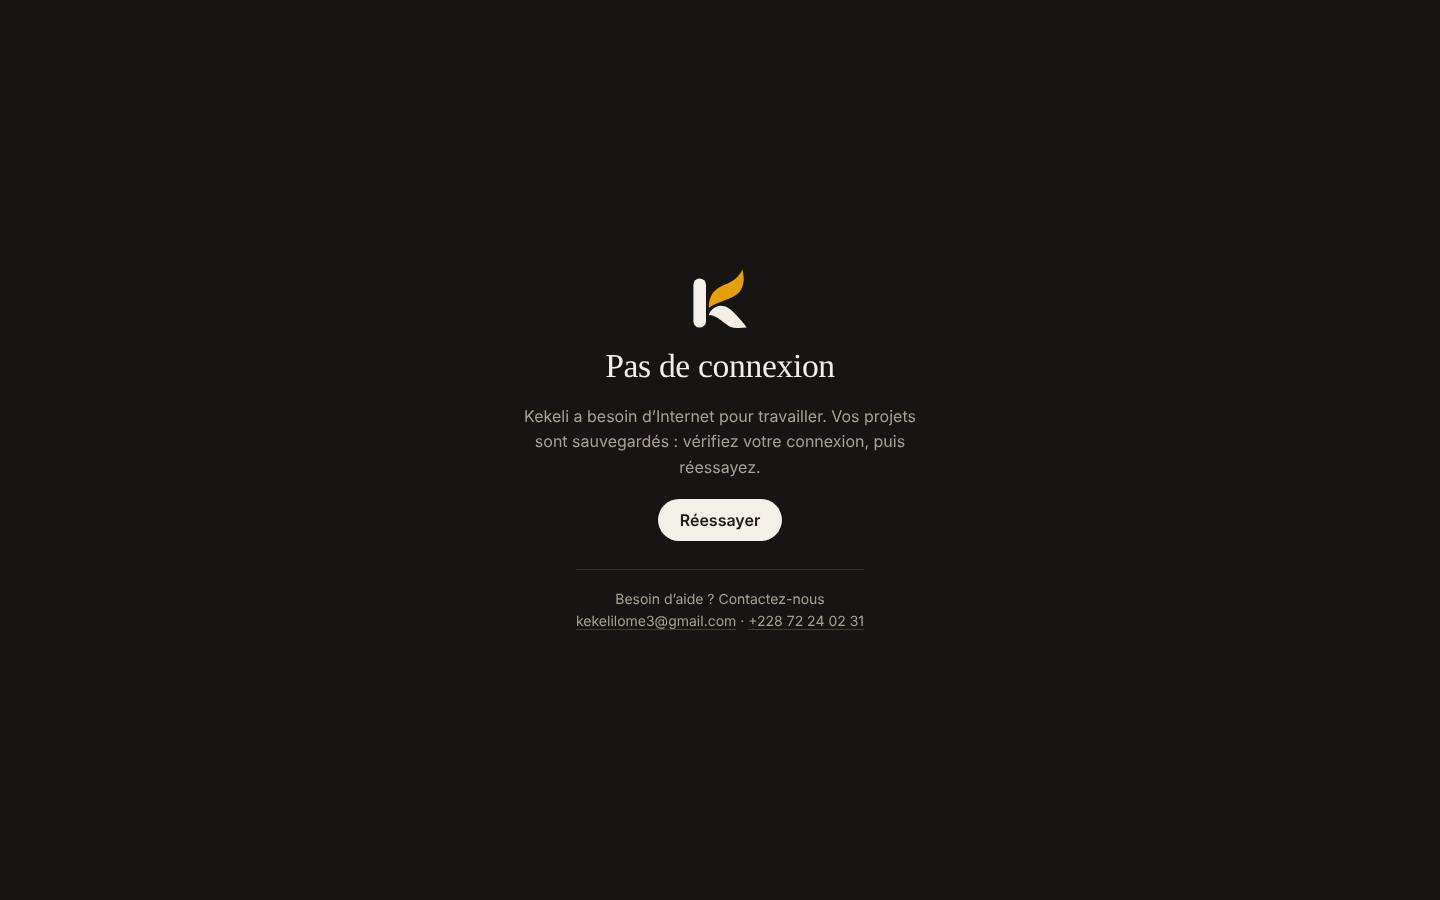
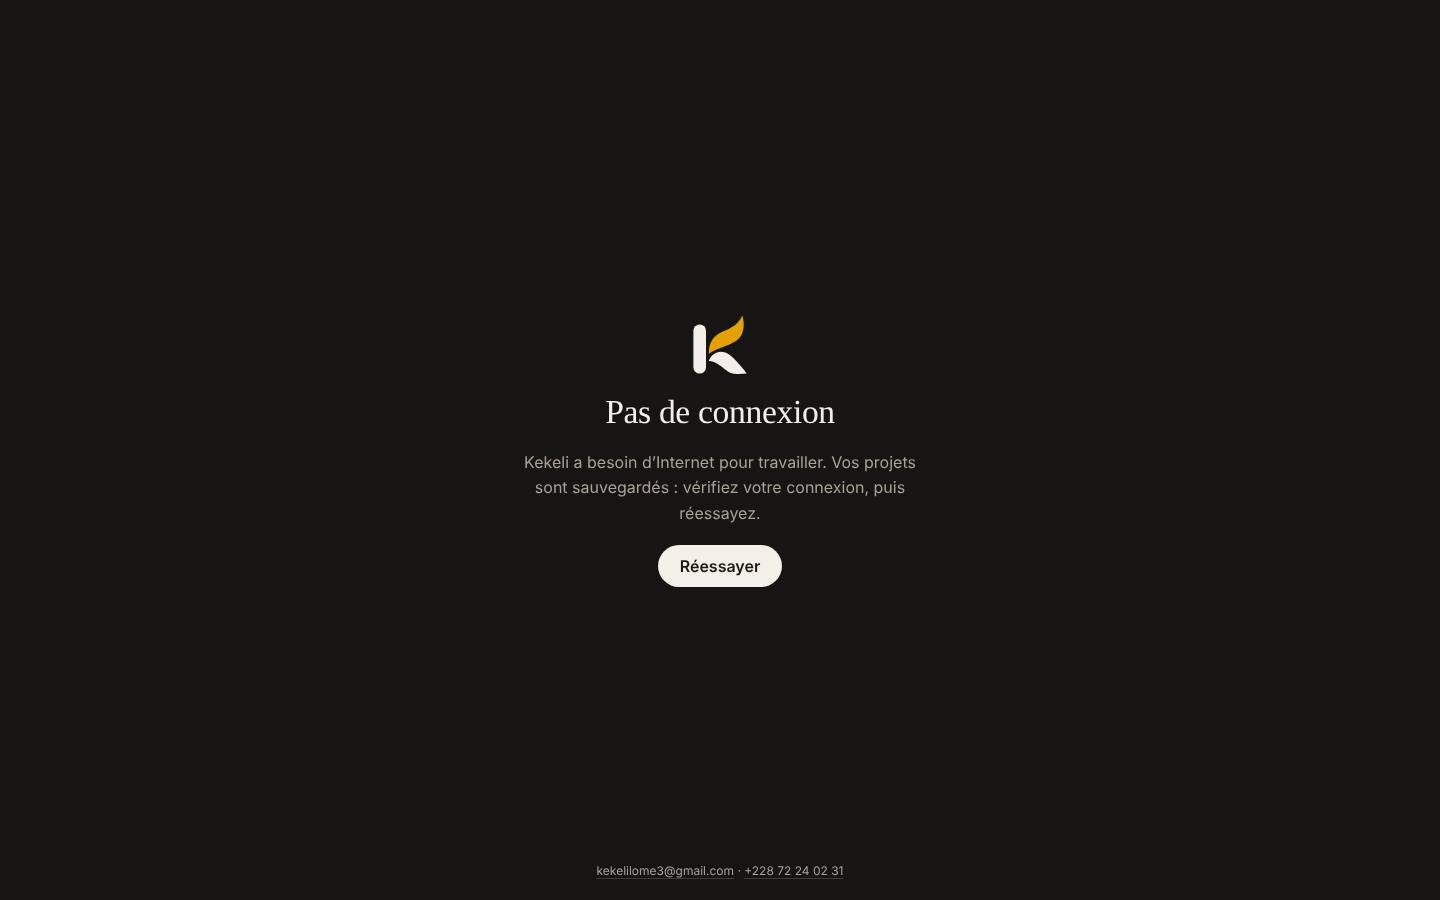
Partie 2 : pages d'erreur sobres, comme Claude et ChatGPT
Le logo, un titre, une phrase courte, un seul bouton « Retour à l'accueil » et le contact réduit en
une ligne discrète en bas ; « Erreur 404 » en majuscules retiré. Page hors connexion alignée. Tests et
captures (téléphone et ordinateur, clair et sombre) ; REPRISE.md : dernière partie terminée, 2.

Claude-Session: https://claude.ai/code/session_01LdDqrjFMw6kYxiJZ8fpgk5

Changed region(s): [[0.375, 0.3111, 0.625, 0.7156], [0.4062, 0.9644, 0.5625, 0.9956]]

diff --git a/resources/views/errors/layout.blade.php b/resources/views/errors/layout.blade.php
@@ -1,30 +1,27 @@
 {{--
-    Pages d'erreur et de maintenance de Kekeli, au même design que le reste : le logo, une phrase simple, un seul
-    bouton, et comment nous joindre (App\Support\Contact, qui revient aux valeurs de départ sans base de données).
+    Pages d'erreur et de maintenance de Kekeli, sobres comme celles de Claude et de ChatGPT : le logo, un titre, une
+    phrase courte, un seul bouton « Retour à l'accueil », et le contact réduit en une seule ligne discrète en bas
+    (App\Support\Contact, qui revient aux valeurs de départ sans base de données). Pas de « Erreur 404 » au-dessus du
+    titre : ni Claude ni ChatGPT ne l'affichent.
 --}}
 <!DOCTYPE html>
 <html lang="fr">
     <head>
         @include('partials.head', ['title' => $title])
     </head>
-    <body class="kekeli-fond min-h-svh antialiased">
-        <main class="mx-auto flex min-h-svh w-full max-w-md flex-col items-center justify-center gap-6 px-4 py-12 text-center" data-error-page="{{ $code }}">
+    <body class="kekeli-fond flex min-h-svh flex-col antialiased">
+        <main class="mx-auto flex w-full max-w-md flex-1 flex-col items-center justify-center gap-5 px-4 py-12 text-center" data-error-page="{{ $code }}">
             <a href="{{ url('/') }}" class="kekeli-apparition" aria-label="{{ __('Back to the home page') }}">
-                <x-app-logo-icon class="size-12" />
+                <x-app-logo-icon class="size-11" />
             </a>
-            <div class="kekeli-apparition space-y-3">
-                <p class="kekeli-surtitre">{{ __('Error :code', ['code' => $code]) }}</p>
-                <h1 class="kekeli-titre text-4xl leading-tight text-zinc-900 dark:text-white">{{ $title }}</h1>
+            <div class="kekeli-apparition space-y-2">
+                <h1 class="kekeli-titre text-[2.25rem] leading-tight text-zinc-900 dark:text-white">{{ $title }}</h1>
                 <p class="text-base text-zinc-600 dark:text-zinc-300">{{ $message }}</p>
             </div>
-            <div class="kekeli-apparition flex flex-wrap items-center justify-center gap-2">
-                @if (($action ?? 'home') === 'reload')
-                    <flux:button variant="primary" onclick="window.location.reload()">{{ __('Try again') }}</flux:button>
-                @else
-                    <flux:button variant="primary" :href="url('/')">{{ __('Back to the home page') }}</flux:button>
-                @endif
-            </div>
-            <x-contact short class="kekeli-apparition mt-4 flex w-full flex-col items-center border-t border-zinc-200 pt-6 dark:border-zinc-700 [&_ul]:justify-center" :title="__('Need help? Contact us')" />
+            <flux:button variant="primary" :href="url('/')" class="kekeli-apparition" data-error-home>{{ __('Back to the home page') }}</flux:button>
         </main>
+        <footer class="px-4 pb-6 text-center text-xs text-zinc-500" data-error-contact>
+            <x-contact inline short />
+        </footer>
     </body>
 </html>

diff --git a/resources/views/offline.blade.php b/resources/views/offline.blade.php
@@ -24,7 +24,7 @@
         h1 { margin: 0; font-family: Georgia, serif; font-weight: 400; font-size: 2.1rem; line-height: 1.15; letter-spacing: -0.01em; }
         p { margin: 0; font-size: 1rem; line-height: 1.6; color: {{ $c['texte-doux'] }}; }
         button { appearance: none; border: 0; border-radius: 999px; padding: 11px 22px; font: inherit; font-weight: 600; background: {{ $c['bouton'] }}; color: {{ $c['bouton-texte'] }}; cursor: pointer; }
-        .contact { margin-top: 10px; padding-top: 18px; border-top: 1px solid {{ $c['bord'] }}; font-size: 0.875rem; }
+        .contact { position: fixed; left: 0; right: 0; bottom: 20px; padding: 0 16px; font-size: 0.75rem; }
         .kekeli-lien { color: inherit; text-decoration: underline; text-underline-offset: 3px; text-decoration-color: {{ $c['bord-fort'] }}; }
         .whitespace-nowrap { white-space: nowrap; }
         @media (prefers-color-scheme: dark) {
@@ -32,7 +32,6 @@
             body { background: {{ $d['fond'] }}; color: {{ $d['texte'] }}; }
             p { color: {{ $d['texte-doux'] }}; }
             button { background: {{ $d['bouton'] }}; color: {{ $d['bouton-texte'] }}; }
-            .contact { border-color: {{ $d['bord'] }}; }
             .kekeli-lien { text-decoration-color: {{ $d['bord-fort'] }}; }
         }
     </style>
@@ -43,7 +42,7 @@
         <h1>{{ __('No connection') }}</h1>
         <p>{{ __('Kekeli needs the Internet to work. Your projects are saved: check your connection, then try again.') }}</p>
         <button type="button" onclick="window.location.reload()">{{ __('Try again') }}</button>
-        <p class="contact">{{ __('Need help? Contact us') }}<br><x-contact inline short /></p>
+        <p class="contact"><x-contact inline short /></p>
     </main>
 </body>
 </html>

diff --git a/tests/Feature/DesignTest.php b/tests/Feature/DesignTest.php
@@ -172,6 +172,12 @@ class DesignTest extends TestCase
             ->assertSee('Cette page n’existe pas')->assertSee('kekelilome3@gmail.com')
             ->assertSee("+228\u{00A0}72\u{00A0}24\u{00A0}02\u{00A0}31", false);
 
+        // Sobres comme Claude et ChatGPT : pas de « Erreur 404 » au-dessus du titre, un seul bouton vers l'accueil.
+        $page = $this->get('/une-page-qui-n-existe-pas')->getContent();
+        $this->assertStringNotContainsString('Erreur 404', $page);
+        $this->assertSame(1, substr_count($page, ' data-error-home='));
+        $this->assertStringContainsString('data-error-contact', $page);
+
         foreach ([403, 419, 429, 500, 503] as $code) {
             $html = view("errors.$code")->render();
             $this->assertStringContainsString('data-error-page="'.$code.'"', $html);

diff --git a/resources/views/errors/419.blade.php b/resources/views/errors/419.blade.php
@@ -1,1 +1,1 @@
-@include('errors.layout', ['code' => 419, 'title' => __('The page has expired'), 'message' => __('For your safety, the page expired after a long pause. Reload it and try again: nothing is lost.'), 'action' => 'reload'])
+@include('errors.layout', ['code' => 419, 'title' => __('The page has expired'), 'message' => __('Go back to the home page and try again: nothing is lost.')])

diff --git a/resources/views/errors/500.blade.php b/resources/views/errors/500.blade.php
@@ -1,1 +1,1 @@
-@include('errors.layout', ['code' => 500, 'title' => __('Something went wrong on our side'), 'message' => __('Kekeli ran into an unexpected problem. Your projects are saved. Try again in a moment.'), 'action' => 'reload'])
+@include('errors.layout', ['code' => 500, 'title' => __('Something went wrong'), 'message' => __('Kekeli ran into a problem. Your projects are saved.')])

diff --git a/resources/views/errors/503.blade.php b/resources/views/errors/503.blade.php
@@ -1,1 +1,1 @@
-@include('errors.layout', ['code' => 503, 'title' => __('Kekeli is being improved'), 'message' => __('We are making Kekeli better. It will be back in a few minutes: your projects are saved.'), 'action' => 'reload'])
+@include('errors.layout', ['code' => 503, 'title' => __('Kekeli will be back soon'), 'message' => __('Kekeli is being improved. Your projects are saved.')])

diff --git a/resources/views/errors/404.blade.php b/resources/views/errors/404.blade.php
@@ -1,1 +1,1 @@
-@include('errors.layout', ['code' => 404, 'title' => __('This page does not exist'), 'message' => __('The address may be wrong, or the page has moved. Your projects are safe.'), 'action' => 'home'])
+@include('errors.layout', ['code' => 404, 'title' => __('This page does not exist'), 'message' => __('The address may be wrong, or the page has moved.')])

diff --git a/resources/views/errors/403.blade.php b/resources/views/errors/403.blade.php
@@ -1,1 +1,1 @@
-@include('errors.layout', ['code' => 403, 'title' => __('This page is not for you'), 'message' => __('You do not have access to this page. If you think this is a mistake, contact us.'), 'action' => 'home'])
+@include('errors.layout', ['code' => 403, 'title' => __('This page is not for you'), 'message' => __('You do not have access to this page.')])

diff --git a/resources/views/errors/429.blade.php b/resources/views/errors/429.blade.php
@@ -1,1 +1,1 @@
-@include('errors.layout', ['code' => 429, 'title' => __('A little too fast'), 'message' => __('Kekeli received many requests in a short time. Wait a moment, then try again.'), 'action' => 'reload'])
+@include('errors.layout', ['code' => 429, 'title' => __('A little too fast'), 'message' => __('Wait a moment, then try again.')])

diff --git a/REPRISE.md b/REPRISE.md
@@ -276,8 +276,8 @@ Le porteur du projet veut rendre le dépôt public environ 2 mois, pour que GitH
 ## Contact sobre, connexion comme Claude et finitions (14 novembre 2026, en cours)
 
 - **Pull request 55 validée.** Branche `claude/sharp-newton-nbcgq6` repartie de `main`. Cinq parties, faites dans l'ordre, poussées après chacune.
-- **Dernière partie terminée : 1** (un seul numéro sur l'accueil, les pages d'erreur et la page hors connexion : `<x-contact short>`, `Contact::mainPhones`).
-- Reste : 2 (pages d'erreur sobres), 3 (connexion comme Claude), 4 (« Nous contacter » en fenêtre avec WhatsApp), 5 (restes de l'ancien soleil, nom « Kekeli »), puis fusion quand GitHub est vert.
+- **Dernière partie terminée : 2.** Partie 1 : un seul numéro sur l’accueil, les pages d’erreur et la page hors connexion (`<x-contact short>`, `Contact::mainPhones`). Partie 2 : pages d’erreur sobres (logo, titre, phrase, « Retour à l’accueil », contact en une ligne en bas, plus de « Erreur 404 »).
+- Reste : 3 (connexion comme Claude), 4 (« Nous contacter » en fenêtre avec WhatsApp), 5 (restes de l'ancien soleil, nom « Kekeli »), puis fusion quand GitHub est vert.
 - Captures : `docs/captures/contact-connexion.md` ; site lancé avec `GOOGLE_CLIENT_ID=identifiant-simule.apps.exemple GOOGLE_CLIENT_SECRET=secret-simule` (valeurs inventées), base `/home/user/kekeli-captures.sqlite` remplie par `scripts/preparer-captures-design.php`, puis `SEULEMENT=… node scripts/captures-contact-connexion.js http://127.0.0.1:8123 docs/captures/contact-connexion`.
 
 ## Mise en ligne : à faire avec la GitHub App Kekeli-Lome

diff --git a/docs/captures/contact-connexion.md b/docs/captures/contact-connexion.md
@@ -12,3 +12,14 @@ Sur l'accueil, les pages d'erreur et la page hors connexion, le contact montre s
 | Accueil, sombre | ![](contact-connexion/telephone-sombre-accueil.jpg) | ![](contact-connexion/ordinateur-sombre-accueil.jpg) |
 | Hors connexion, clair | ![](contact-connexion/telephone-clair-hors-connexion.jpg) | ![](contact-connexion/ordinateur-clair-hors-connexion.jpg) |
 | Hors connexion, sombre | ![](contact-connexion/telephone-sombre-hors-connexion.jpg) | ![](contact-connexion/ordinateur-sombre-hors-connexion.jpg) |
+
+## Partie 2 : pages d'erreur sobres, comme Claude et ChatGPT
+
+Le logo, un titre, une phrase courte, un seul bouton « Retour à l'accueil », et le contact réduit en une ligne discrète en bas. « Erreur 404 » en majuscules est retiré (ni Claude ni ChatGPT ne l'affichent). La page hors connexion suit la même règle (son bouton reste « Réessayer », puisque l'accueil n'est pas joignable sans réseau).
+
+| | Téléphone | Ordinateur |
+|---|---|---|
+| Page introuvable, clair | ![](contact-connexion/telephone-clair-erreur-404.jpg) | ![](contact-connexion/ordinateur-clair-erreur-404.jpg) |
+| Page introuvable, sombre | ![](contact-connexion/telephone-sombre-erreur-404.jpg) | ![](contact-connexion/ordinateur-sombre-erreur-404.jpg) |
+| Maintenance, clair | ![](contact-connexion/telephone-clair-maintenance.jpg) | ![](contact-connexion/ordinateur-clair-maintenance.jpg) |
+| Maintenance, sombre | ![](contact-connexion/telephone-sombre-maintenance.jpg) | ![](contact-connexion/ordinateur-sombre-maintenance.jpg) |
